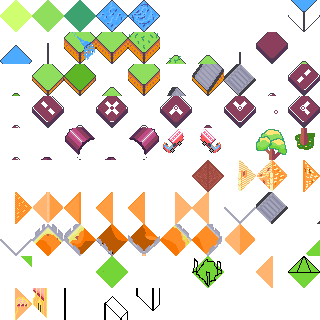
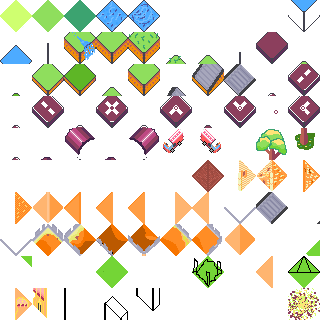
Made 'corruption', a visual indication of the attack range of fortresses.

Changed region(s): [[0.875, 0.9062, 1.0, 1.0]]

diff --git a/core/src/com/kroy/game/ETMastermind.java b/core/src/com/kroy/game/ETMastermind.java
@@ -4,18 +4,22 @@ import com.badlogic.gdx.math.Vector2;
 import com.kroy.game.entities.Firetruck;
 import com.kroy.game.entities.Fortress;
 import com.kroy.game.map.Map;
+import com.kroy.game.map.MapDrawer;
 
 import java.util.ArrayList;
 
 public class ETMastermind
 {
     private Map map;
+    private MapDrawer mapDrawer;
 
     public final int LEVEL_UP_FREQUENCY = 3;   // The number of turns that must elapse before fortresses become stronger
 
-    public ETMastermind(Map map)
+    public ETMastermind(Map map, MapDrawer mapDrawer)
     {
         this.map = map;
+        this.mapDrawer = mapDrawer;
+        drawCorruption();
     }
 
     public int getFortressNumber()
@@ -63,6 +67,32 @@ public class ETMastermind
                 {
                     Fortress f = (Fortress) map.getEntity(j, i);
                     f.levelUp();
+                }
+            }
+        }
+        drawCorruption();
+    }
+
+    public void drawCorruption()
+    {
+        for (int i = 0; i < map.HEIGHT; i++)
+        {
+            for (int j = 0; j < map.WIDTH; j++)
+            {
+                if (map.getEntity(j, i) != null && map.getEntity(j, i) instanceof Fortress)
+                {
+                    Fortress f = (Fortress) map.getEntity(j, i);
+                    // Draw corruption to show ET fire range
+                    for (int n = 0; n < map.HEIGHT; n++)
+                    {
+                        for (int m = 0; m < map.WIDTH; m++)
+                        {
+                            if (new Vector2(j, i).sub(m, n).len() <= f.getAttackRadius() + 1)
+                            {
+                                mapDrawer.setCorruption(m, n);
+                            }
+                        }
+                    }
                 }
             }
         }

diff --git a/core/src/com/kroy/game/map/MapDrawer.java b/core/src/com/kroy/game/map/MapDrawer.java
@@ -7,6 +7,7 @@ import com.badlogic.gdx.graphics.OrthographicCamera;
 import com.badlogic.gdx.graphics.Texture;
 import com.badlogic.gdx.graphics.g2d.SpriteBatch;
 import com.badlogic.gdx.maps.tiled.TiledMap;
+import com.badlogic.gdx.maps.tiled.TiledMapTileLayer;
 import com.badlogic.gdx.maps.tiled.renderers.IsometricTiledMapRenderer;
 import com.badlogic.gdx.maps.tiled.renderers.OrthogonalTiledMapRenderer;
 import com.badlogic.gdx.math.Vector2;
@@ -288,8 +289,9 @@ public class MapDrawer
 		}
 	}
 
-	public void displayMovementRadius(int x, int y)
+	public void setCorruption(int x, int y)
 	{
-
+		TiledMapTileLayer tileLayer = (TiledMapTileLayer) backmap.getLayers().get("Corruption");
+		tileLayer.setCell(x, tileLayer.getHeight()-y-1, MapParser.getCorruption(backmap));
 	}
 }

diff --git a/core/src/com/kroy/game/map/MapParser.java b/core/src/com/kroy/game/map/MapParser.java
@@ -104,4 +104,21 @@ public class MapParser
             }
         }
     }
+
+    public static TiledMapTileLayer.Cell getCorruption(TiledMap tilemap)
+    {
+        TiledMapTileLayer tileLayer = (TiledMapTileLayer) tilemap.getLayers().get("FireStation");
+        for (int x = 0; x < tileLayer.getWidth(); x++)
+        {
+            for (int y = 0; y < tileLayer.getHeight(); y++)
+            {
+                TiledMapTileLayer.Cell cell =  tileLayer.getCell(x, y);
+                if (cell != null)
+                {
+                    return cell;
+                }
+            }
+        }
+        return null;
+    }
 }

diff --git a/core/src/com/kroy/game/scenes/GameScreen.java b/core/src/com/kroy/game/scenes/GameScreen.java
@@ -57,7 +57,7 @@ public class GameScreen implements Screen
 		
 		this.game = game;
 		selected = null;
-		turnState = turnStates.PLAYER;
+ 		turnState = turnStates.PLAYER;
 
 		hud = new GameHud(game.batch, game.skin);
 		map = new Map();
@@ -68,7 +68,7 @@ public class GameScreen implements Screen
 		parser.addAll(map, tileMap);
 		map.spawnFortress(5, 5);
 		mapDrawer = new MapDrawer(game, map, tileMap);
-		enemyAI = new ETMastermind(this.map);
+		enemyAI = new ETMastermind(this.map, this.mapDrawer);
 	}
 
 	@Override

diff --git a/core/src/com/kroy/game/entities/Fortress.java b/core/src/com/kroy/game/entities/Fortress.java
@@ -10,7 +10,7 @@ public class Fortress extends Entity implements DamageableEntity
     private int targetsPerTurn = 1;
     private int health;
     private int attackStrength = 1;
-    private int attackRadius = 2;
+    private int attackRadius = 1;
 
     public Fortress()
     {
